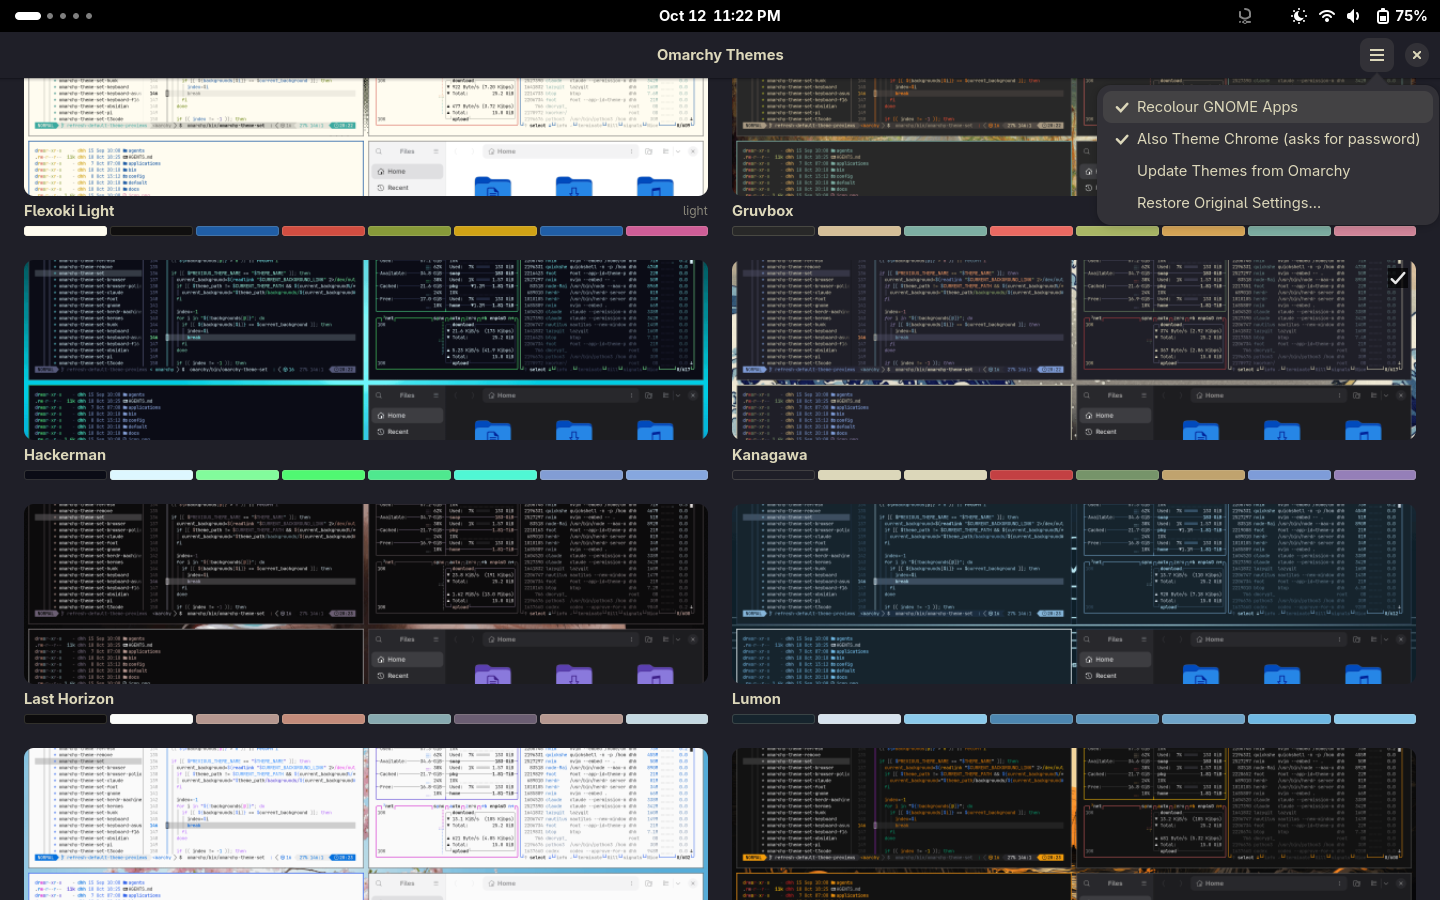
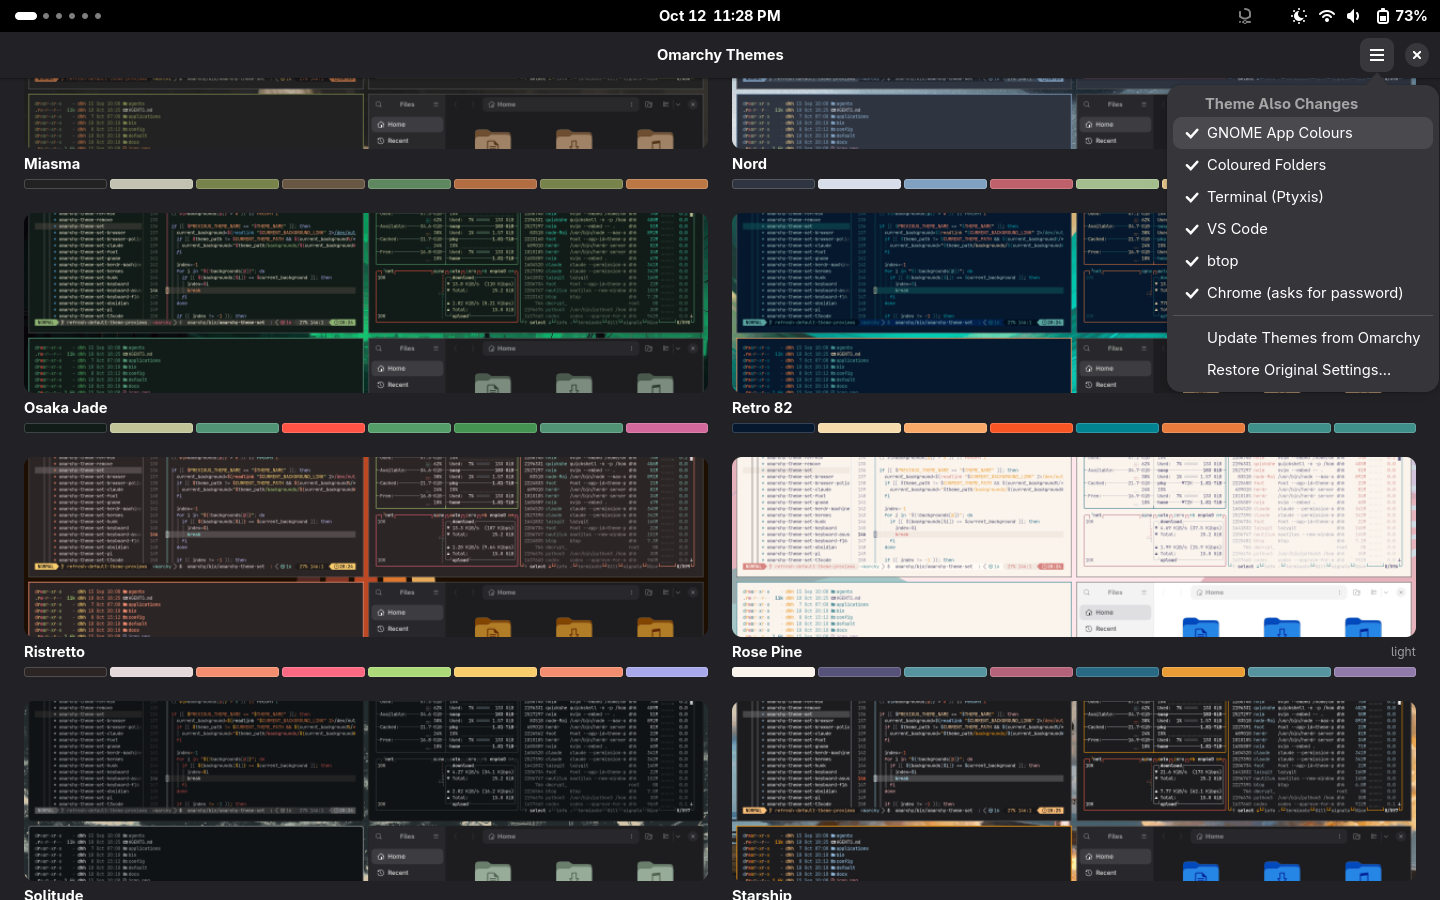
Make every optional part a checkbox in the app's menu
The ☰ menu now lists what a theme switch changes beyond GNOME's mode,
accent and wallpaper: GNOME App Colours, Coloured Folders, Terminal
(Ptyxis), VS Code, btop and Chrome, each a checkbox; apps that aren't
installed are hidden. The choices live in settings.json next to the
CLI (`omarchy-theme options`, `enable`, `disable`), so both agree.

Coloured Folders is now opt-in instead of part of install.sh: ticking
it clones and builds Adwaita-colors and starts the follow-accent
service, unticking stops the service, removes the icons and goes back
to plain Adwaita. install.sh only installs the app and the command, so
nothing keeps running unless chosen. Chrome starts off.

Existing installs keep their choices: folders count as on while the
service is enabled, and the app's old Chrome setting is read once.

diff --git a/README.md b/README.md
@@ -13,7 +13,7 @@ Windows, top bar and layout stay GNOME's — it changes colours and wallpaper, n
 
 ## The app
 
-![The Omarchy Themes app: theme cards with preview images and colour swatches, and the ☰ menu open](docs/screenshots/app-grid.png)
+![The Omarchy Themes app: theme cards with preview images and colour swatches, and the ☰ menu of options open](docs/screenshots/app-grid.png)
 
 Open **Omarchy Themes** from Activities. Every Omarchy theme is shown as a card with its preview
 and colour palette; the current one has a check mark.
@@ -35,38 +35,45 @@ of its wallpapers:
 The same three choices are on the **Apply ▾** button. Mixing is easy: find a wallpaper you like
 in any theme and press W, then find the colours you want and press T.
 
-The **☰ menu** has:
+The **☰ menu** chooses what a theme switch changes, besides GNOME's dark/light mode, accent and
+wallpaper. Apps that aren't installed aren't listed.
 
-- **Recolour GNOME Apps** — windows, sidebars and headers in the theme's colours, not just the
-  accent (opt-in; see *Design*). Apps pick it up when reopened.
-- **Also Theme Chrome** — sets Chrome's toolbar colour too; asks for an admin password each time.
-- **Update Themes from Omarchy** — fetch new and updated themes.
-- **Restore Original Settings…** — put everything back as it was before the first theme.
+| Option | Default | |
+|---|---|---|
+| GNOME App Colours | off | windows, sidebars and headers in the theme's colours, not just the accent (see *Design*); apps pick it up when reopened |
+| Coloured Folders | off | folder icons in the accent colour; ticking it downloads and builds the icons and starts a small service that follows the accent, unticking removes both |
+| Terminal (Ptyxis) | on | |
+| VS Code | on | |
+| btop | on | |
+| Chrome | off | toolbar colour; asks for an admin password on each switch |
+
+Below them: **Update Themes from Omarchy** and **Restore Original Settings…** (everything back as
+it was before the first theme).
 
 ## What a theme changes
 
 | | |
 |---|---|
 | GNOME | dark/light mode, nearest accent colour |
-| Folder icons | Adwaita recoloured to the accent ([Adwaita-colors](https://github.com/dpejoh/Adwaita-colors)), also when the accent is changed by hand; Omarchy's Yaru pick if only that is installed |
-| GNOME apps | *opt-in*: window, sidebar, header and exact accent colours |
+| Folder icons | *option*: Adwaita recoloured to the accent ([Adwaita-colors](https://github.com/dpejoh/Adwaita-colors)), also when the accent is changed by hand |
+| GNOME apps | *option*: window, sidebar, header and exact accent colours |
 | Wallpaper | one of the theme's own backgrounds, chosen in the preview |
 | Ptyxis | a generated terminal palette |
 | VS Code | the theme's named VS Code theme, or one generated from its colours |
 | btop | Omarchy's btop template |
-| Chrome / Chromium | *opt-in*: toolbar colour via browser policy |
+| Chrome / Chromium | *option*: toolbar colour via browser policy |
 
 ## Install
 
 ```bash
 git clone https://github.com/rnakshay/omarchy-themes-gnome
 cd omarchy-themes-gnome
-./install.sh              # the app in Activities, omarchy-theme on PATH, accent-coloured folders
+./install.sh              # the app in Activities, omarchy-theme on PATH
 ./install.sh --uninstall
 ```
 
-Nothing needs root. Re-run `./install.sh` after a GNOME update, so the coloured folder icons are
-rebuilt from the new Adwaita.
+Nothing needs root, and nothing keeps running unless you tick *Coloured Folders*. With it on,
+untick and tick it again after a GNOME update, so the icons are rebuilt from the new Adwaita.
 
 Requires Python 3.11+, git, PyGObject with GTK 4 / libadwaita 1.6+, and `dwebp` (libwebp-tools).
 
@@ -80,7 +87,8 @@ omarchy-theme set osaka-jade [--skip chrome,vscode,wallpaper] [--wallpaper 2]
 omarchy-theme wallpaper tokyo-night 2   # another theme's wallpaper, current colours kept
 omarchy-theme next-wallpaper            # cycle the current theme's wallpapers
 omarchy-theme colors tokyo-night        # preview a palette in the terminal
-omarchy-theme recolor on|off            # GNOME app recolour
+omarchy-theme options                   # which options are on
+omarchy-theme enable|disable vscode     # options: apps folders ptyxis vscode btop chrome
 omarchy-theme sync                      # pull new and updated themes from Omarchy
 omarchy-theme reset                     # restore everything from before the first theme
 ```
